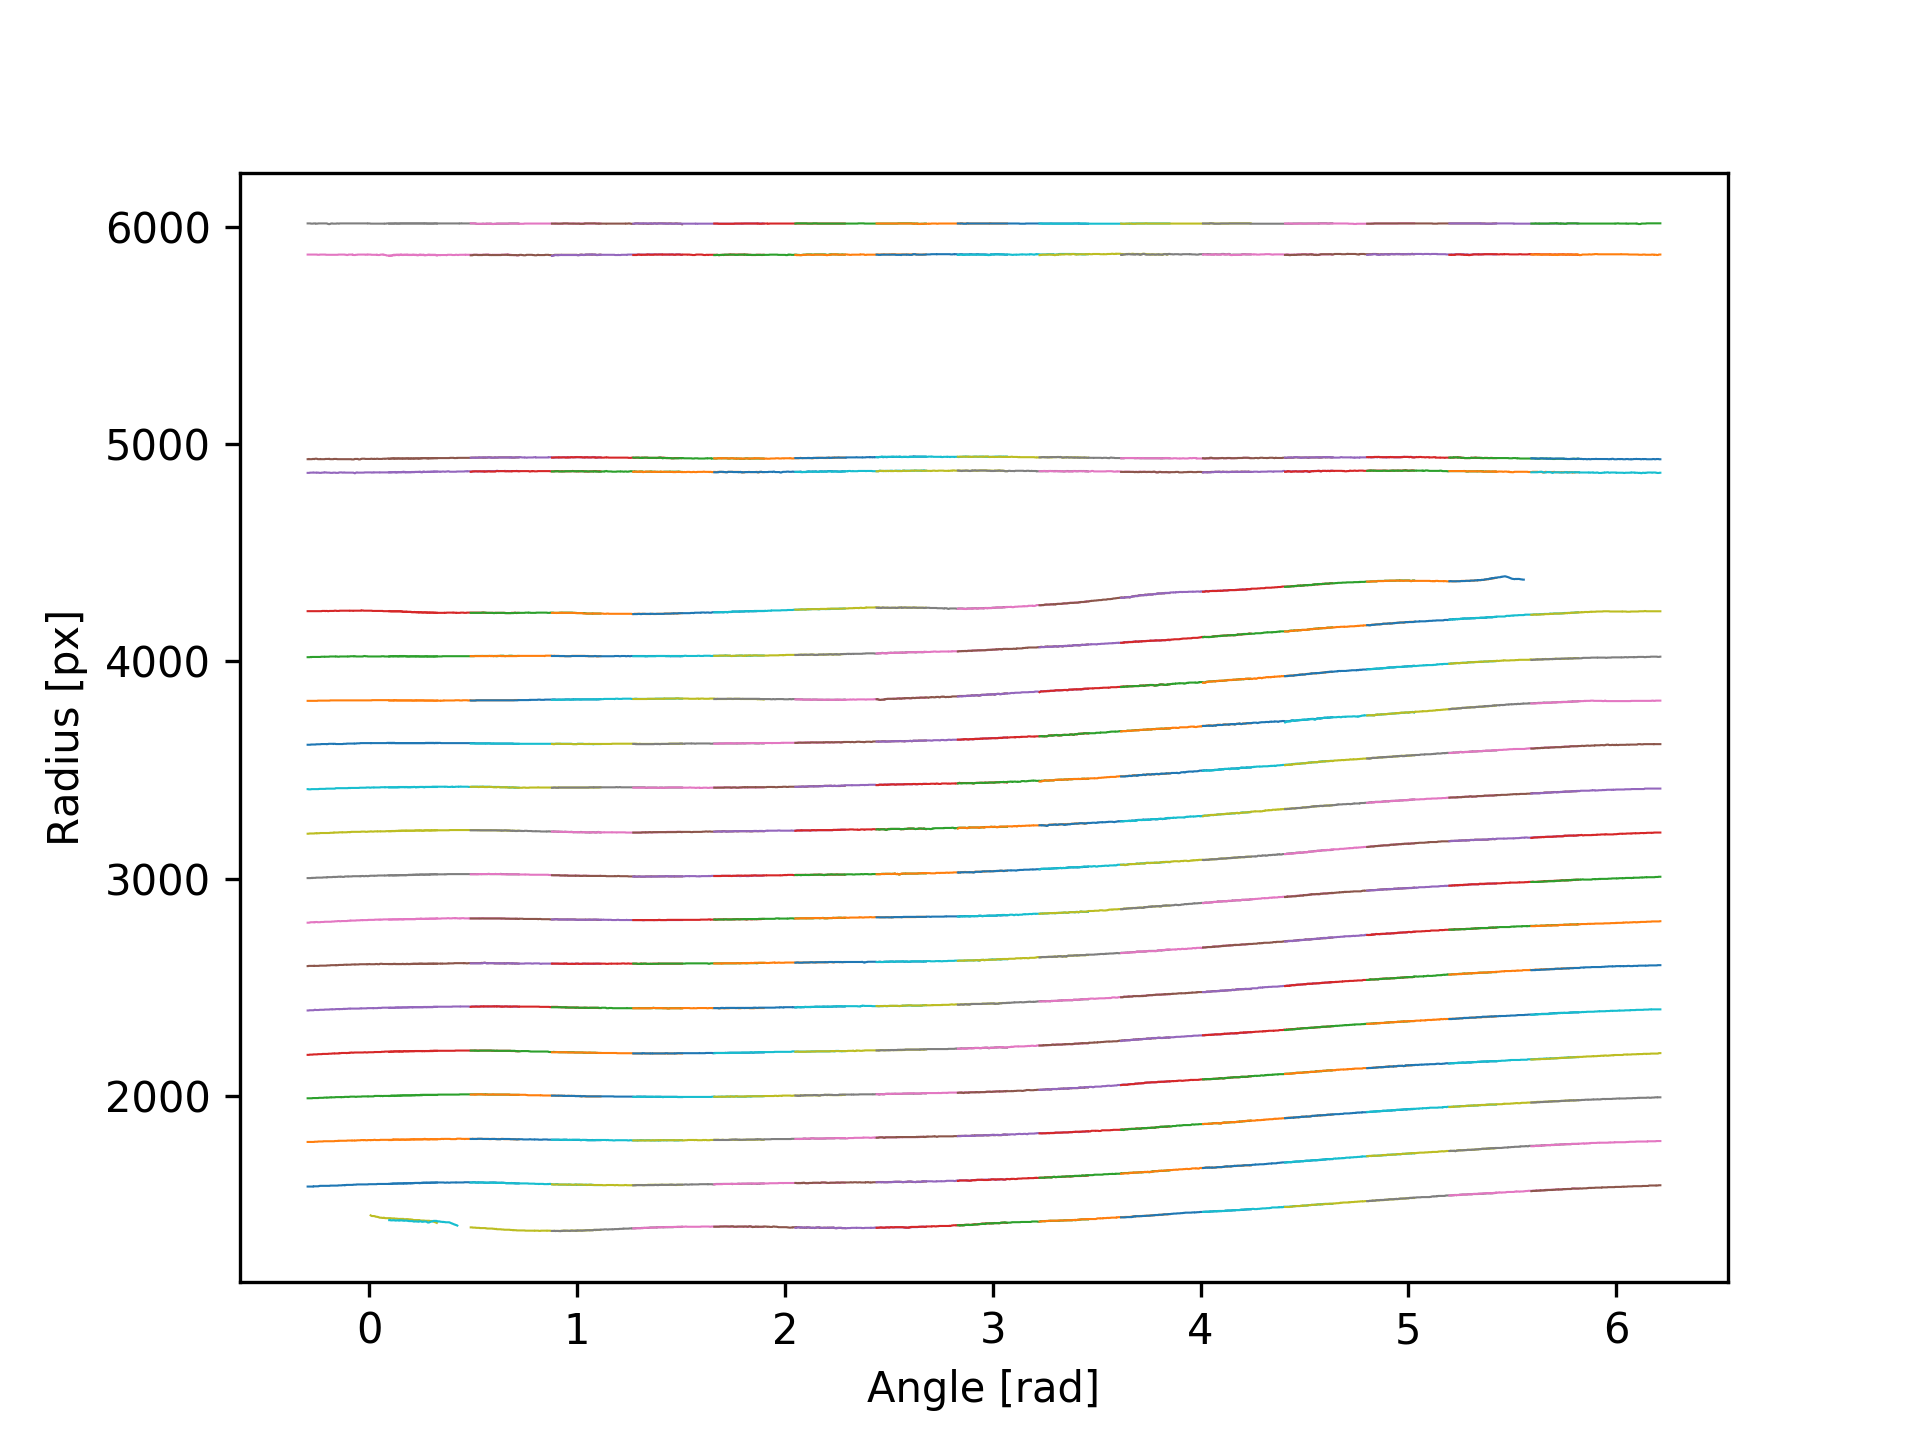
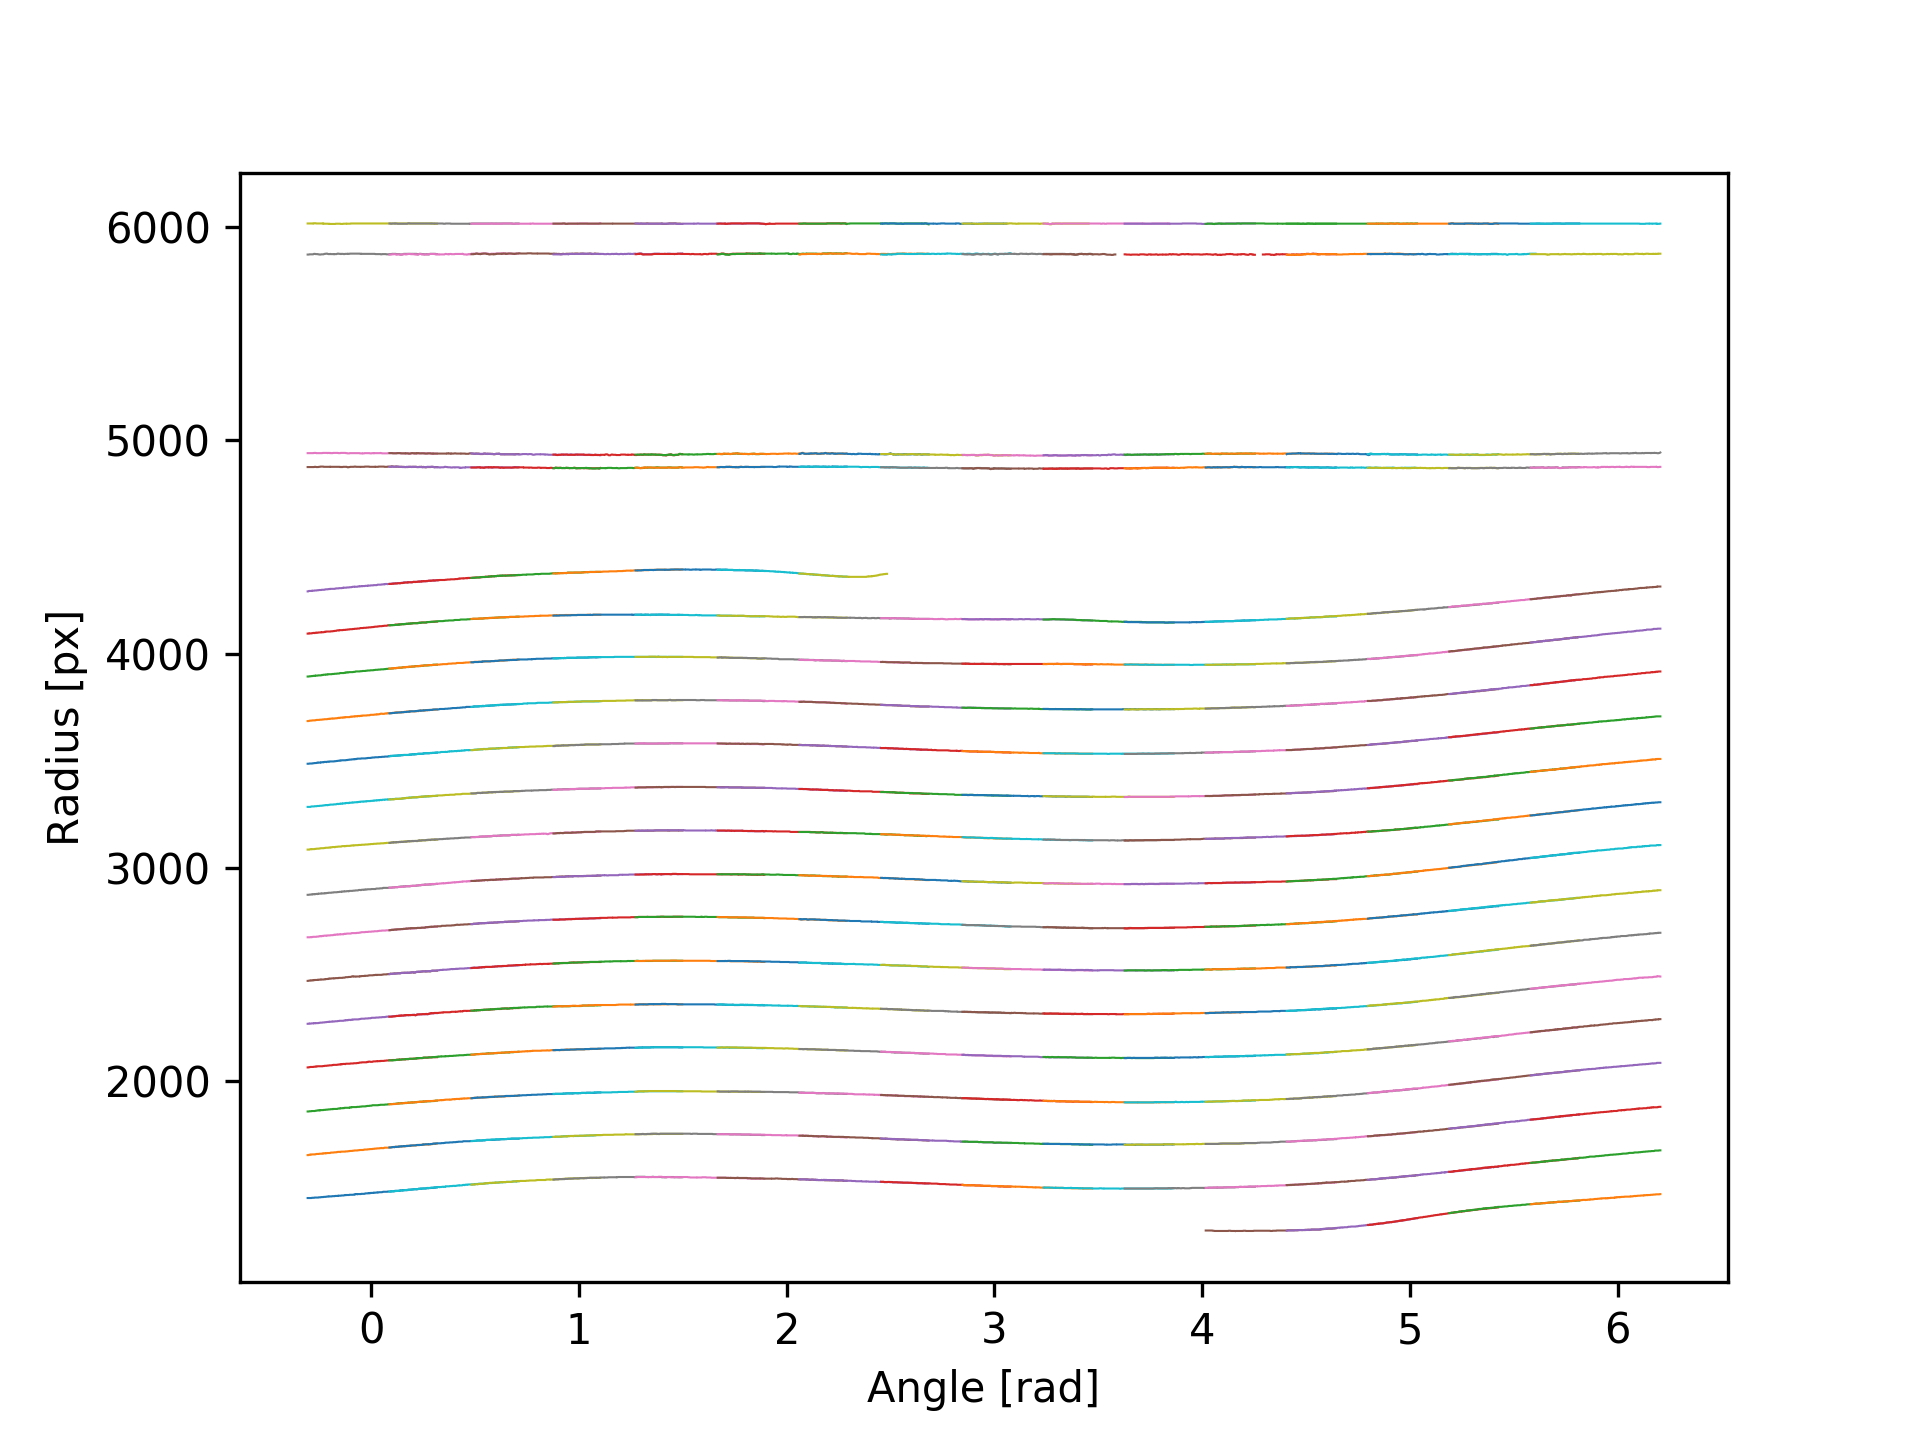
Double sided combining

diff --git a/sectorImage/core/stitcher.py b/sectorImage/core/stitcher.py
@@ -17,7 +17,7 @@ __location__ = os.path.realpath(
 
 class Stitcher:
 
-    def __init__(self, fns, calibration=None, mpflag=True):
+    def __init__(self, fns, calibration=None, env=None, mpflag=True):
         """
         Stitching class to combine multiple processed images
 
@@ -25,6 +25,10 @@ class Stitcher:
         ----------
         fns: List of strings
             filenames to be read and combined. The combination is done in the order of the supplied list
+        calibration: List of floats
+            returned from the calibration sequence
+        env: Environment object
+            container for data about the physical environment
         mpflag: bool, optional
             multiprocessing flag. If on, the image processing is distributed over the available cores.
             This disables plotting of individual images. Default is True
@@ -32,6 +36,10 @@ class Stitcher:
         self.fns = fns
         self.images = []
         self.mpflag = mpflag
+
+        if env is None:
+            raise Exception('Missing Environment')
+        self.env = env
 
         if calibration is None:
             print('Loading Calibration from File')
@@ -62,15 +70,23 @@ class Stitcher:
                 im.getLines()
                 self.images.append(im)
 
-    def stitchImages(self, plot=True, tofile=False):
+    def stitchImages(self, plot=True, tofile=True):
         print(_C.MAGENTA + 'Stitching images' + _C.ENDC)
         """
-        Stitch the parametrized band midpoints and plot the output
+        Stitch the images together by using the calibrated midpoints and absolute angles
 
         Parameters
         ----------
         plot: bool, optional
             plot the output. Default True
+        tofile: bool, optional
+            save the band segment coordinates to file including the image and band index as meta data in a tuple
+
+        Returns
+        -------
+        segments: list of 4-tuples
+            Each tuple contains 2 lists with angles and radii, followed by image and band index.
+            The band index is only relative to the current image, not to the overall spiral
         """
         if plot:
             fig = plt.figure()
@@ -101,45 +117,77 @@ class Stitcher:
         return segments
 
     def combineSegments(self, segments, plot=False):
+        """
+        Combine the segments of the stitched image to a continuous spiral
+
+        Parameters
+        ----------
+        segments: list of 4-tuples
+            see return of stitchImages()
+        plot: bool, optional
+            plot the output. Default False
+
+        Returns
+        -------
+        parametrized: 3-tuple
+            2 lists of angles and radii of the parametrized spiral followed by the calibrated relationship between pixels and mm
+        """
         segments = [Segment(*coords, identity=i) for i, coords in enumerate(segments)]
-        # Calibrate to mm
-        calib_sizes = np.empty(0)
+        # Calibration piece
+        calib_rs = np.empty(0)
+        calib_phis = np.empty(0)
         for i in range(len(self.fns)):
             img_segs = [s for s in segments if s.imgNum == i]
             calib_seg = max(img_segs, key=operator.attrgetter('bandNum'))
-            size = np.mean(calib_seg.rs)
-            calib_sizes = np.append(calib_sizes, size)
-        calib_size_px = np.mean(calib_sizes)
+            calib_rs = np.append(calib_rs, calib_seg.rs)
+            calib_phis = np.append(calib_phis, calib_seg.phis)
+        calib_size_px = np.mean(calib_rs)
 
         # Dimensions of the calibration piece
-        calib_size_mm = 68.0 / 2.0
-        tolerance = 1.0
-        calib_width_mm = 6.55 * tolerance
+        calib_size_mm = self.env.calib_size_mm  # Outer radius of calibration piece
+        tolerance = 1.1
+        calib_width_mm = self.env.calib_width_mm * tolerance  # Width of the calibration piece
+        pitch_mm = self.env.pitch_mm  # Nominal electrode pitch
 
         scale = calib_size_mm / calib_size_px
 
+        print('Resolution: ' + str(round(scale * 1000, 2)) + ' um/px')
+
         calibrationCutoff = (calib_size_mm - calib_width_mm) / scale
-        # This should be calculated from the physical size
-        # calibrationCutoff = 4800
+        pitch = pitch_mm / scale
+
         segments = [s for s in segments if np.min(s.rs) < calibrationCutoff]
 
         connected_ids = []
         segments_sorted = sorted(segments, key=operator.attrgetter('comP'))
         left_starts = sorted([s for s in segments if s.imgNum == 0], key=operator.attrgetter('comR'))
-
+        right_starts = sorted([s for s in segments if s.imgNum == len(self.fns) - 1], key=operator.attrgetter('comR'))
+        chirality = 1
         bands = []
         for start in left_starts:
             combined = [start]
-            for i in range(len(self.fns) - 1):
-                candidates = [s for s in segments_sorted if s.imgNum == i + 1 and s.identity not in connected_ids]
-                if len(candidates) > 0:
-                    ep = combined[-1].ep
-                    candidates_lp = [c.lp for c in candidates]
-                    nearestPt = min(candidates_lp, key=lambda x: vectools.pointdistPolar(x, ep))
-                    nearest_idx = candidates_lp.index(nearestPt)
-                    nearest_seg = candidates[nearest_idx]
-                    combined.append(nearest_seg)
-                    connected_ids.append(nearest_seg.identity)
+            connected_ids.append(start.identity)
+            # for i in range(len(self.fns) - 1):
+            while True:
+                # candidates are all next images
+                candidates = [s for s in segments_sorted if s.imgNum ==
+                              combined[-1].imgNum + 1 and s.identity not in connected_ids]
+                if len(candidates) == 0:
+                    break
+                # Connect EP to candiate LP
+                ep = combined[-1].ep
+                candidates_lp = [c.lp for c in candidates]
+                # sortedPt = sorted(candidates_lp, key=lambda x: vectools.pointdistPolar(x, ep))
+                nearestPt = min(candidates_lp, key=lambda x: abs(x[1] - ep[1]))
+                if abs(nearestPt[1] - ep[1]) > 0.5 * pitch:
+                    if combined[-1].bandNum == 0:
+                        chirality = -1
+                    print('breaking left')
+                    break
+                nearest_idx = candidates_lp.index(nearestPt)
+                nearest_seg = candidates[nearest_idx]
+                combined.append(nearest_seg)
+                connected_ids.append(nearest_seg.identity)
             bandR = np.empty(0)
             bandP = np.empty(0)
             for c in combined:
@@ -149,7 +197,44 @@ class Stitcher:
             bandR = bandR[order]
             bandP = bandP[order]
             bands.append([bandP, bandR])
-            #ax.plot(bandP, bandR, lw=0.5)
+        right_starts = sorted([s for s in segments if s.imgNum == len(self.fns) -
+                               1 and s.identity not in connected_ids], key=operator.attrgetter('comR'))
+
+        for start in right_starts:
+            combined = [start]
+            connected_ids.append(start.identity)
+            # for i in range(len(self.fns) - 1):
+            while True:
+                # candidates are all next images
+                candidates = [s for s in segments_sorted if s.imgNum ==
+                              combined[-1].imgNum - 1 and s.identity not in connected_ids]
+                if len(candidates) == 0:
+                    break
+                # Connect EP to candiate LP
+                lp = combined[-1].lp
+                candidates_ep = [c.ep for c in candidates]
+                nearestPt = min(candidates_ep, key=lambda x: abs(x[1] - lp[1]))
+                if abs(nearestPt[1] - lp[1]) > 0.5 * pitch:
+                    if combined[-1].bandNum == 0:
+                        chirality = 1
+                    print('breaking')
+                    break
+                nearest_idx = candidates_ep.index(nearestPt)
+                nearest_seg = candidates[nearest_idx]
+                combined.append(nearest_seg)
+                connected_ids.append(nearest_seg.identity)
+            bandR = np.empty(0)
+            bandP = np.empty(0)
+            for c in combined:
+                bandR = np.append(bandR, c.rs)
+                bandP = np.append(bandP, c.phis)
+            order = np.argsort(bandP)
+            bandR = bandR[order]
+            bandP = bandP[order]
+            bands.append([bandP, bandR])
+
+        if len(segments) != len(connected_ids):
+            raise Exception('Disconnected segments')
 
         avgR = [np.mean(b[1]) for b in bands]
         order = np.argsort(avgR)
@@ -161,7 +246,7 @@ class Stitcher:
         compY = np.empty(0)
         for i, b in enumerate(bands):
             compR = np.append(compR, b[1])
-            phi = b[0] + i * 2 * np.pi
+            phi = b[0] + i * chirality * 2 * np.pi
             compP = np.append(compP, phi)
 
         order = np.argsort(compP)
@@ -178,6 +263,9 @@ class Stitcher:
 
             axPolar.plot(compP, compR, lw=0.5, c='black')
             axPolar.axhline(y=calibrationCutoff * scale, lw=0.8, ls='-.', c='red')
+            axPolar.axhline(y=calib_size_px * scale, lw=0.8, c='red')
+            axPolar.fill_between([0, compP[-1]], calibrationCutoff * scale,
+                                 calib_size_px * scale, facecolor='red', alpha=0.1)
 
             axCart.plot(compX, compY, lw=0.5, c='black')
             cutoffCircle = plt.Circle((0, 0), calibrationCutoff * scale,
@@ -211,7 +299,8 @@ class Stitcher:
             figPolar.savefig(__location__ + '/../img/out/combinedPolar.png', dpi=300)
             figCart.savefig(__location__ + '/../img/out/combinedCart.png', dpi=300)
 
-        return (compP, compR, scale)
+        parametrized = (compP, compR, scale, chirality)
+        return parametrized
 
     def loadSegments(self, fn='stitched.npy'):
         fn = __location__ + '/../data/' + fn
